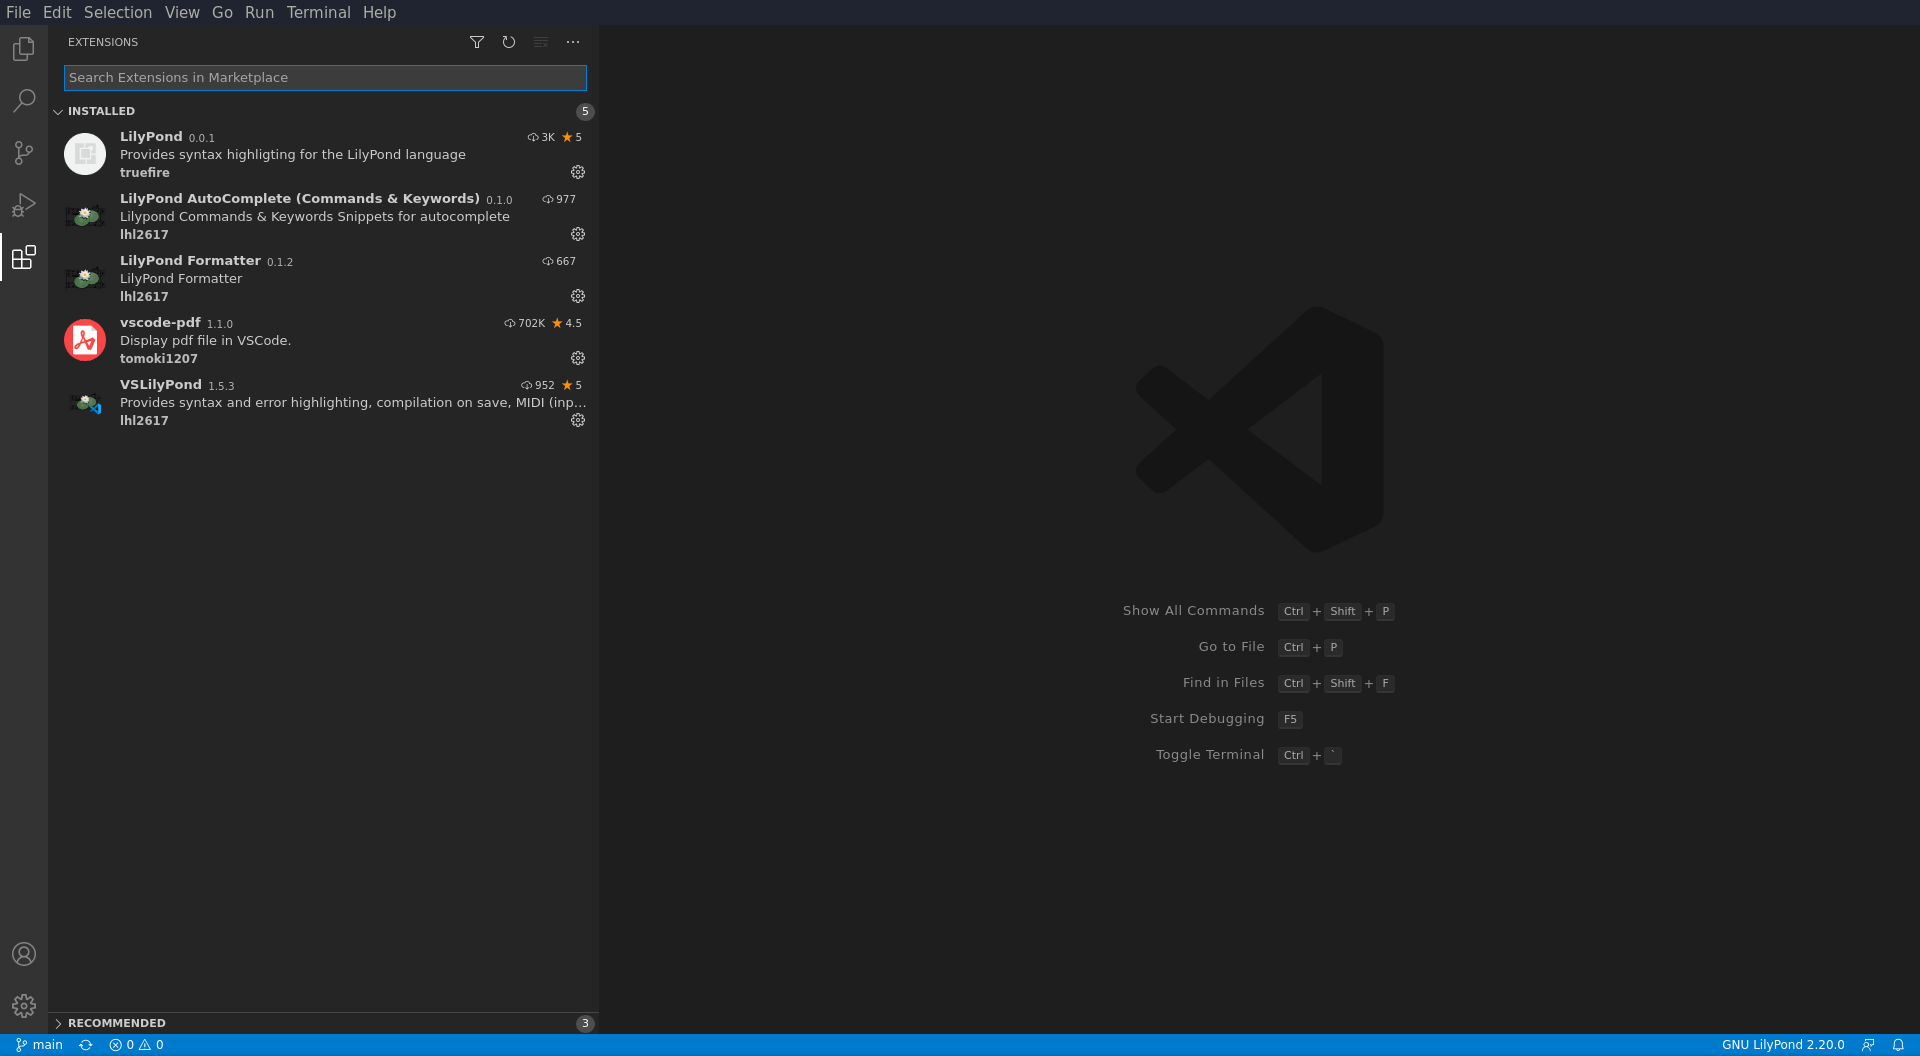
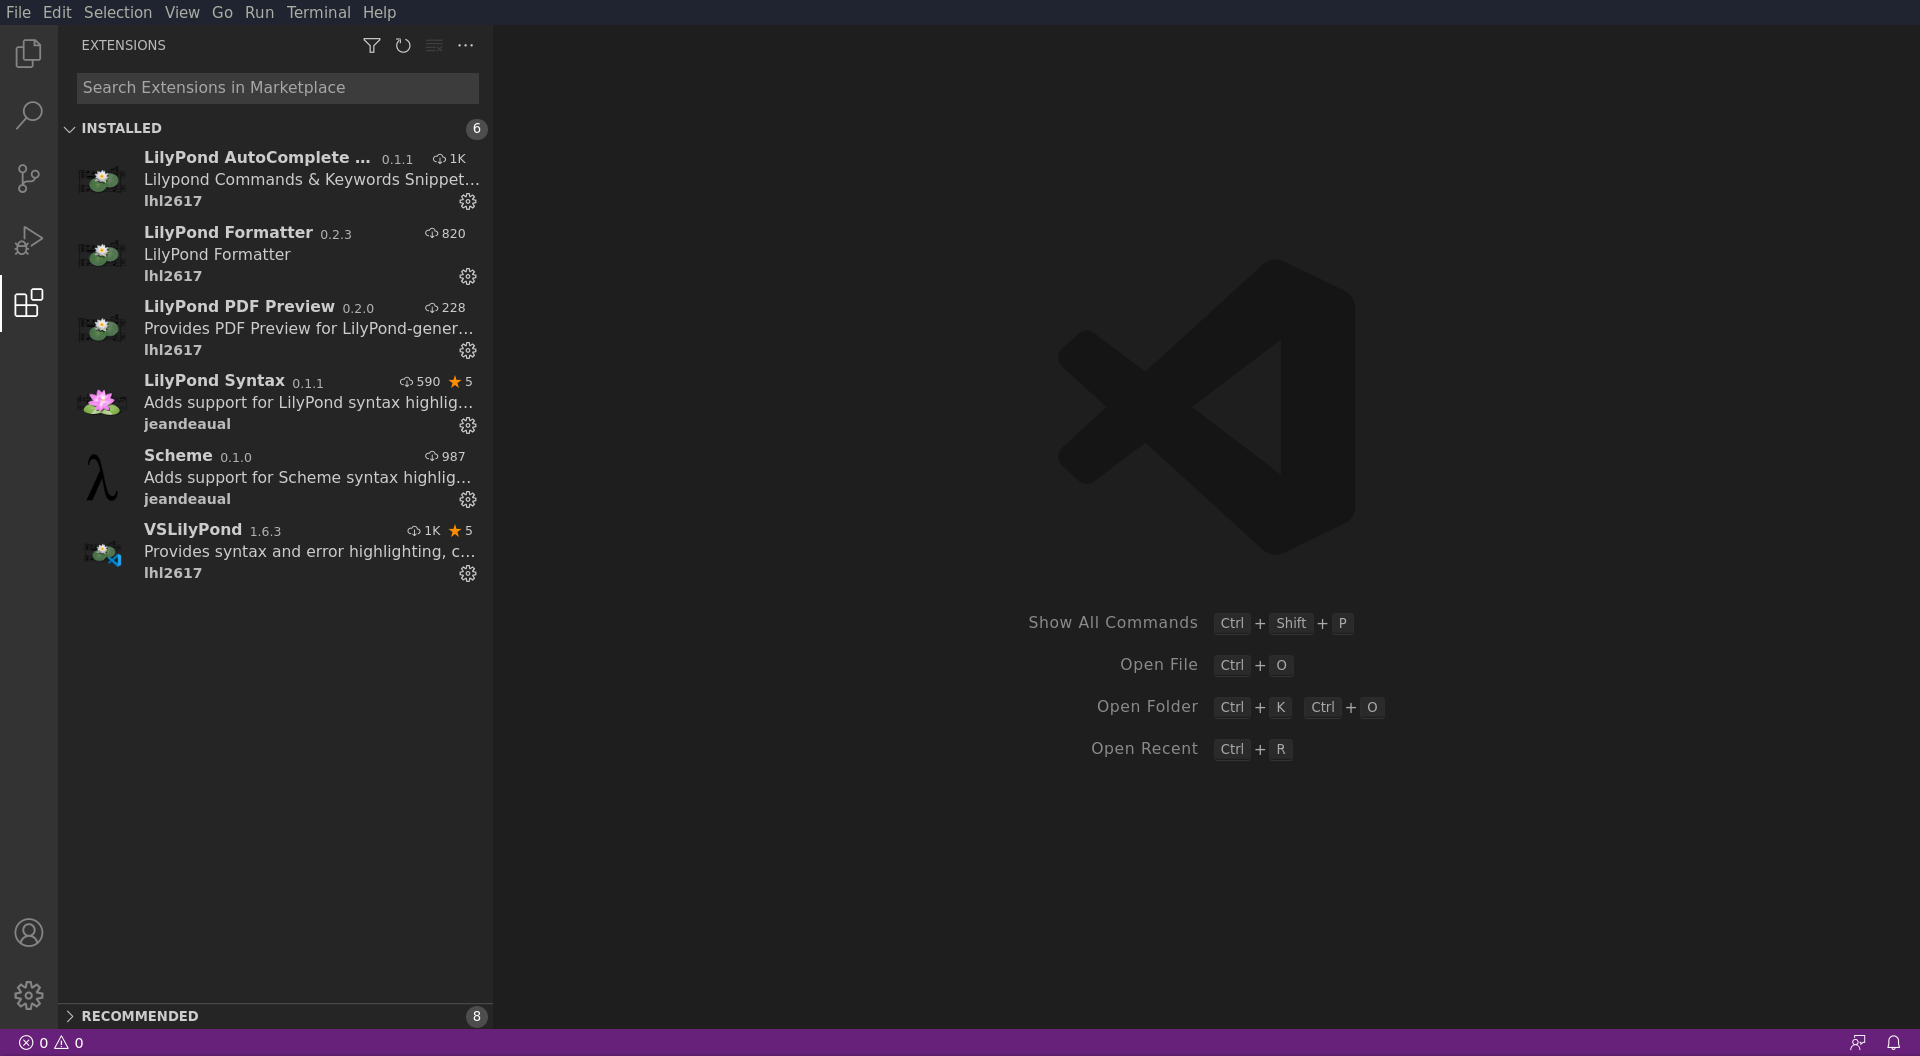
Update vscode docs based on LH's feedback
Many thanks to LH!!

diff --git a/docs/vscode.md b/docs/vscode.md
@@ -5,7 +5,7 @@
 
 (Beginners should first work through [Lilypond + Frescobaldi setup](contributing))
 
-Visual Studio Code is a powerful open-source IDE with a dizzying array of helpful extensions. It's straightforward to install Lilypond extensions to turn VSCode into a powerful Lilypond IDE.
+Visual Studio Code is a powerful open-source IDE with a dizzying array of helpful extensions. It's straightforward to install Lilypond extensions to turn VSCode into a powerful Lilypond IDE. (Many thanks to lhl2617 for creating the extension and suggesting edits to this page.)
 
 
 ### Installing
@@ -22,9 +22,13 @@ To set up Visual Studio Code for Lilypond development:
 1. Open Visual Studio Code
 1. Choose "Open folder", navigate to where the repository was downloaded, and click "Open" just inside. You should see a few files and directories, like `README.md` and `docs/`
 1. Click on the Extensions icon tab on the left side of the screen (Ctrl+Shift+X)
-1. Install the `Lilypond` extension. This adds syntax highlighting to .ly files.
-1. Install the `vscode-pdf` extension. This extension allows you to open PDFs for viewing, so you can check your work without leaving VSCode.
-1. Install the `VSLilyPond` extension (This will automatically install two other lilypond extensions). These extensions: run lilypond whenever a .ly file is saved; generate PDF and MIDI outputs in the same directory; provide error highlighting, autocomplete, code formatting, and midi input for note entry (haven't tried using this yet).
+1. Install the `VSLilyPond` extension (This will automatically install several extensions). These extensions:
+  - run lilypond whenever a .ly file is saved;
+  - generate PDF and MIDI outputs in the same directory
+  - provide error highlighting, autocomplete, and code formatting
+  - PDF viewer, where clicking on a note will place your cursor on that note in the source
+  - midi playback (see below for configuration)
+  - midi input for note entry (haven't tried using this yet)
 1. The installed extensions look like this:
 ![VSCode Extensions screenshot](assets/img/vscode-extensions.png)
 1. Exit and restart VSCode for extensions to take full effect
